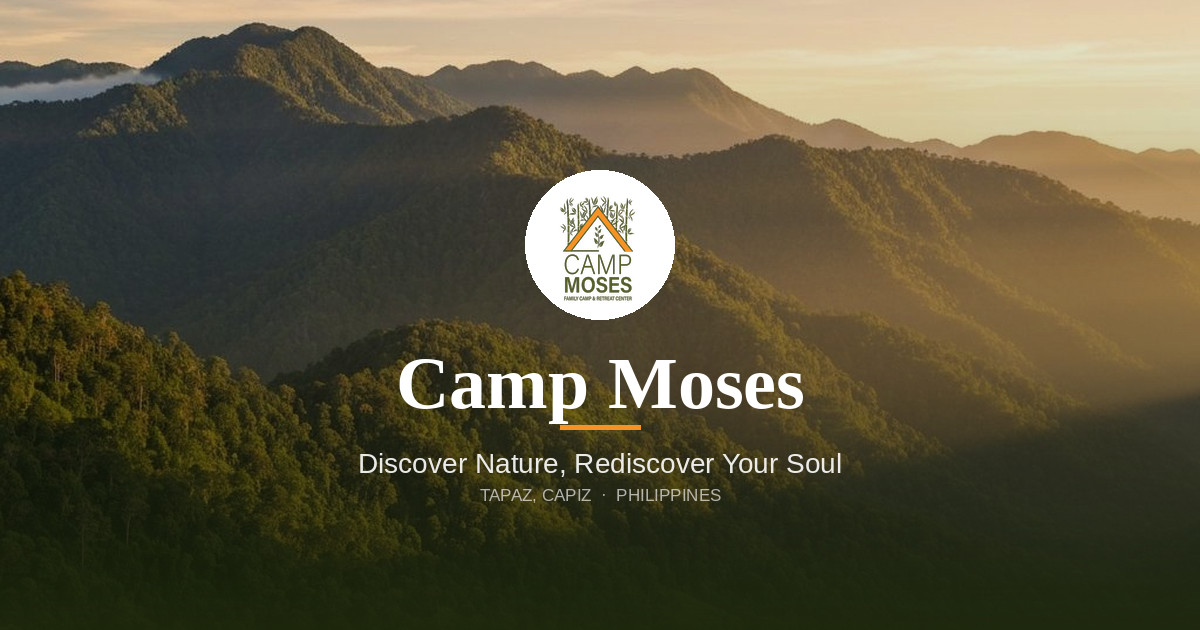
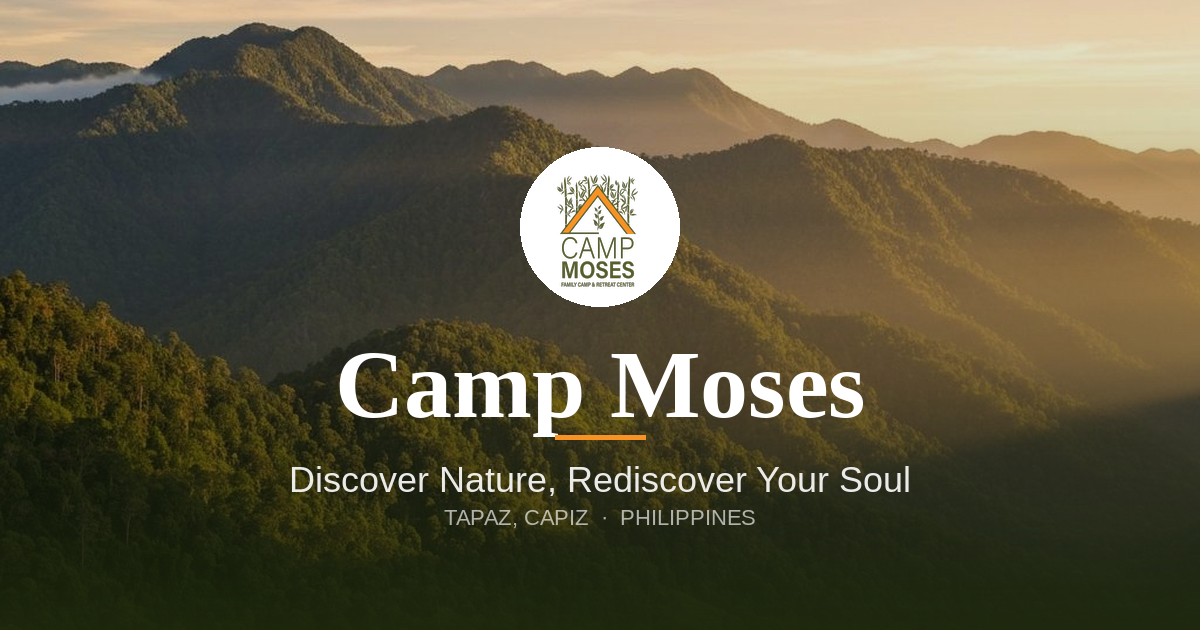
feat: replace dynamic OG route with static social card PNG
- Generates og-social-card.png (1200x630) using brand colors (#505a27 green,
  #f79225 orange), mountain background photo, and Camp Moses logo
- Removes app/opengraph-image.tsx (next/og dynamic route, no longer needed)
- Points og:image and twitter:image in layout.tsx and page.tsx to the static PNG

https://claude.ai/code/session_011nZgeBPH8cFzdXaBBsTvHu

Changed region(s): [[0.2467, 0.5429, 0.7708, 0.8444], [0.4317, 0.2111, 0.5858, 0.5127]]

diff --git a/app/layout.tsx b/app/layout.tsx
@@ -31,7 +31,7 @@ export const metadata: Metadata = {
     siteName: "Camp Moses",
     images: [
       {
-        url: "/opengraph-image",
+        url: "/og-social-card.png",
         width: 1200,
         height: 630,
         alt: "Camp Moses - Discover Nature, Rediscover Your Soul",
@@ -42,7 +42,7 @@ export const metadata: Metadata = {
     card: "summary_large_image",
     title: "Camp Moses - Discover Nature, Rediscover Your Soul",
     description: "A sanctuary family camp and retreat center in Tapaz, Capiz",
-    images: ["/opengraph-image"],
+    images: ["/og-social-card.png"],
   },
   icons: {
     icon: "/favicon.ico",

diff --git a/app/page.tsx b/app/page.tsx
@@ -26,6 +26,7 @@ export const metadata: Metadata = {
     card: "summary_large_image",
     title: "Camp Moses - Discover Nature, Rediscover Your Soul",
     description: "A sanctuary Christian retreat center in Tapaz, Capiz",
+    images: ["/og-social-card.png"],
   },
 }
 
